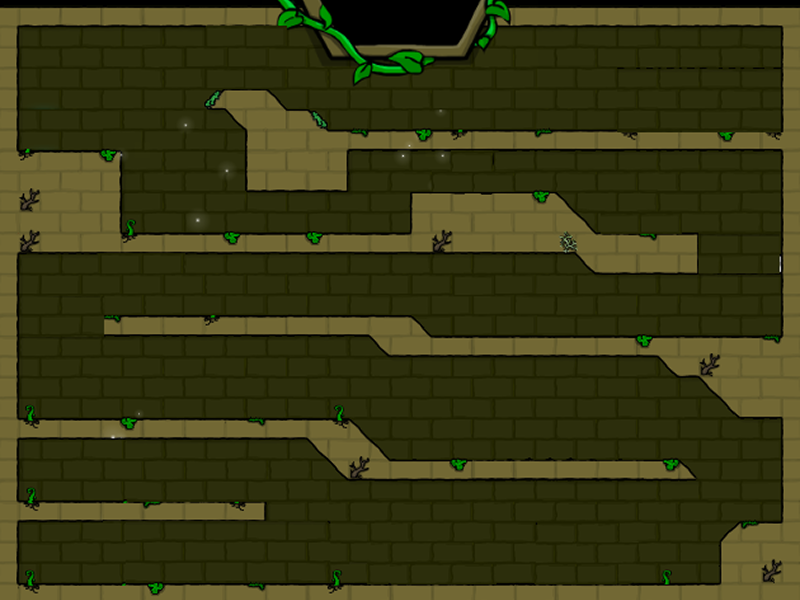
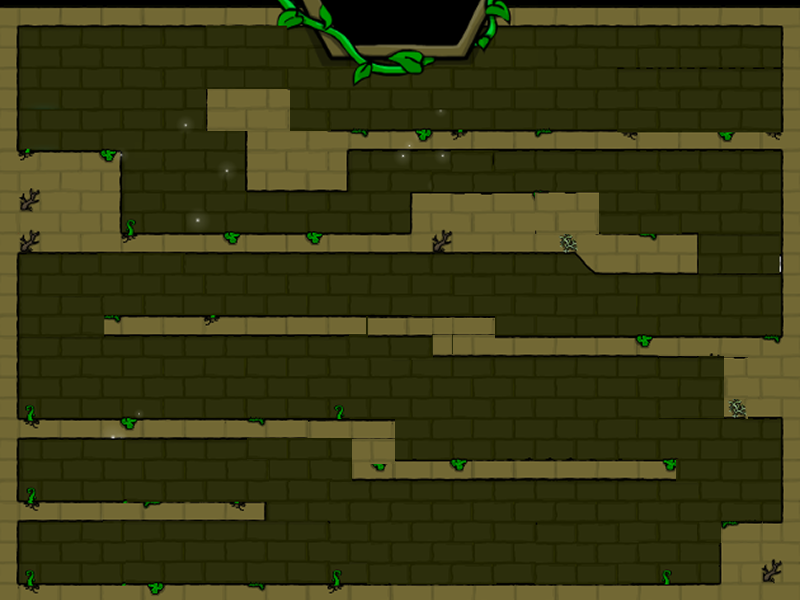
chore: adjust original mapbackground level1

diff --git a/include/MapBackground.hpp b/include/MapBackground.hpp
@@ -106,20 +106,30 @@ private:
           // {GA_RESOURCE_DIR "/Image/Background/Level1.png"},
       },
       {
-          {{
-              {-380, 380, -295, -286}, // 底部平台
-              {-380, 380, 270, 280},   // 上方平台（增加厚度）
-              {-380, -380, -300, 300}, // 左牆（防掉出左邊）
-              {380, 380, -300, 300},   // 右牆（防掉出右邊）
-              {-380, -135, -223, -204}, {320, 380, -285, -225},
-              {-11, 280, -184, -165},   {-49, -10, -165, -120},
-              {-380, -51, -140, -120},  {-295, -30, -40, -20},
-              {30, 257, -57, -40},      {257, 380, -57, -40},
-              {196, 298, 25, 67},       {198, 196, 64, 108},
-              {12, 177, 45, 108},       {-278, 11, 45, 66},
-              {-380, -279, 45, 147},    {-194, -155, 189, 209},
-              {-151, -121, 115, 209},   {-112, -70, 168, 189},
-              {-70, 380, 168, 169},
+          {{{-380, 380, -295, -286}, // 底部平台
+            {-380, 380, 270, 280},   // 上方平台（增加厚度）
+            {-380, -380, -300, 300}, // 左牆（防掉出左邊）
+            {380, 380, -300, 300},   // 右牆（防掉出右邊）
+            {-380, -135, -223, -204},
+            {320, 380, -285, -225},
+            {-11, 280, -184, -165},
+            {-49, -10, -165, -120},
+            {-380, -51, -140, -120},
+            {-295, 95, -42, -19},
+            {34, 380, -58, -40},
+            // {30, 257, -57, -40},
+            // {257, 380, -57, -40},
+            {196, 298, 25, 67},
+            {198, 196, 64, 108},
+            {12, 177, 45, 108},
+            {-278, 11, 45, 66},
+            {-380, -279, 45, 147},
+            {-192, -110, 168, 209},
+            {-380, -279, 45, 147},
+            {-192, -110, 168, 209},
+            {-151, -51, 118, 169},
+            {-51, 380, 155, 169},
+            {324, 380, -122, -59}
 
           }
 

diff --git a/src/pages/SecondLevel.cpp b/src/pages/SecondLevel.cpp
@@ -26,10 +26,10 @@ void SecondLevel::Start() {
 
   // watergirl(終點比較上面) fireboy
   //-256 -174
-  fireboy = std::make_shared<NewFireBoy>(glm::vec2(-50, -256));
+  fireboy = std::make_shared<NewFireBoy>(glm::vec2(-50, 96));
   m_Root.AddChild(fireboy);
   // x:-100
-  Girl = std::make_shared<NewWaterGirl>(glm::vec2(-100, -174));
+  Girl = std::make_shared<NewWaterGirl>(glm::vec2(-100, 96));
   m_Root.AddChild(Girl);
 
   Rock = std::make_shared<NewRock>(glm::vec2(-200, 80), glm::vec2(10, 14));
@@ -45,7 +45,7 @@ void SecondLevel::Start() {
       std::make_shared<NewElevator>(glm::vec2(-340, -26), glm::vec2(20, 2),
                                     "blue", -90, glm::vec2(0.4, 0.34), "Y"));
   elevators.push_back(
-      std::make_shared<NewElevator>(glm::vec2(340, 58), glm::vec2(16, 16),
+      std::make_shared<NewElevator>(glm::vec2(340, 56), glm::vec2(16, 2),
                                     "purple", -30, glm::vec2(0.4, 0.34), "Y"));
   // switchs
   switches.push_back(std::make_shared<NewSwitch>(
@@ -57,10 +57,10 @@ void SecondLevel::Start() {
       glm::vec2(250, 74), glm::vec2(5, 7), "purple", true));
 
   // doors
-  doors.push_back(std::make_shared<NewDoor>(glm::vec2(250, 200),
-                                            glm::vec2(30, 30), "fire"));
+  doors.push_back(
+      std::make_shared<NewDoor>(glm::vec2(250, 200), glm::vec2(0, 30), "fire"));
   doors.push_back(std::make_shared<NewDoor>(glm::vec2(320, 200),
-                                            glm::vec2(30, 30), "water"));
+                                            glm::vec2(0, 30), "water"));
   std::vector<glm::vec2> redDiamondPositions = {
       {150, -260},
       {-250, 20},

diff --git a/src/pages/ThirdLevel.cpp b/src/pages/ThirdLevel.cpp
@@ -26,9 +26,9 @@ void ThirdLevel::Start() {
   Pools.push_back(std::make_shared<NewPool>(
       glm::vec2(70, -277), glm::vec2(55, -7), "fire", glm::vec2(1, 0.36)));
   Pools.push_back(std::make_shared<NewPool>(
-      glm::vec2(-152, -17), glm::vec2(70, -7), "green", glm::vec2(0.6, 0.36)));
+      glm::vec2(-152, -17), glm::vec2(60, -7), "green", glm::vec2(0.6, 0.36)));
   Pools.push_back(std::make_shared<NewPool>(
-      glm::vec2(182, -17), glm::vec2(70, -7), "green", glm::vec2(0.62, 0.36)));
+      glm::vec2(182, -17), glm::vec2(60, -7), "green", glm::vec2(0.62, 0.36)));
 
   elevators.push_back(
       std::make_shared<NewElevator>(glm::vec2(120, 163), glm::vec2(30, 2),

diff --git a/src/machines/NewElevator.cpp b/src/machines/NewElevator.cpp
@@ -38,11 +38,9 @@ void NewElevator::UpdateBtnActivate(bool Activate, float deltaTime) {
           (direction < 0 && newY < targetY)) {
         newY = targetY;
       }
-      LOG_DEBUG("1");
 
       SetPosition({GetPosition().x, newY});
     } else {
-      LOG_DEBUG("2");
 
       // 靠近目標高度就直接貼上去
       SetPosition({GetPosition().x, targetY});
@@ -69,10 +67,8 @@ void NewElevator::UpdateActivate(int dir, float deltaTime) {
 
   if ((dir != record_dir)) {
     if (dir == 1) {
-      LOG_DEBUG(1);
       targetY = m_OriginalY;
     } else {
-      LOG_DEBUG(2);
       targetY = m_TargetY;
     }
     record_dir = dir;

diff --git a/src/main.cpp b/src/main.cpp
@@ -14,7 +14,7 @@ int main(int, char **) {
 
   auto context = Core::Context::GetInstance();
   auto phases = std::vector<std::shared_ptr<App>>();
-  auto currentPhase = Enum::PhaseEnum::ThirdLevel;
+  auto currentPhase = Enum::PhaseEnum::SecondLevel;
 
   phases.push_back(std::make_shared<IntroductionPage>(IntroductionPage()));
   phases.push_back(std::make_shared<FirstLevel>(FirstLevel()));
